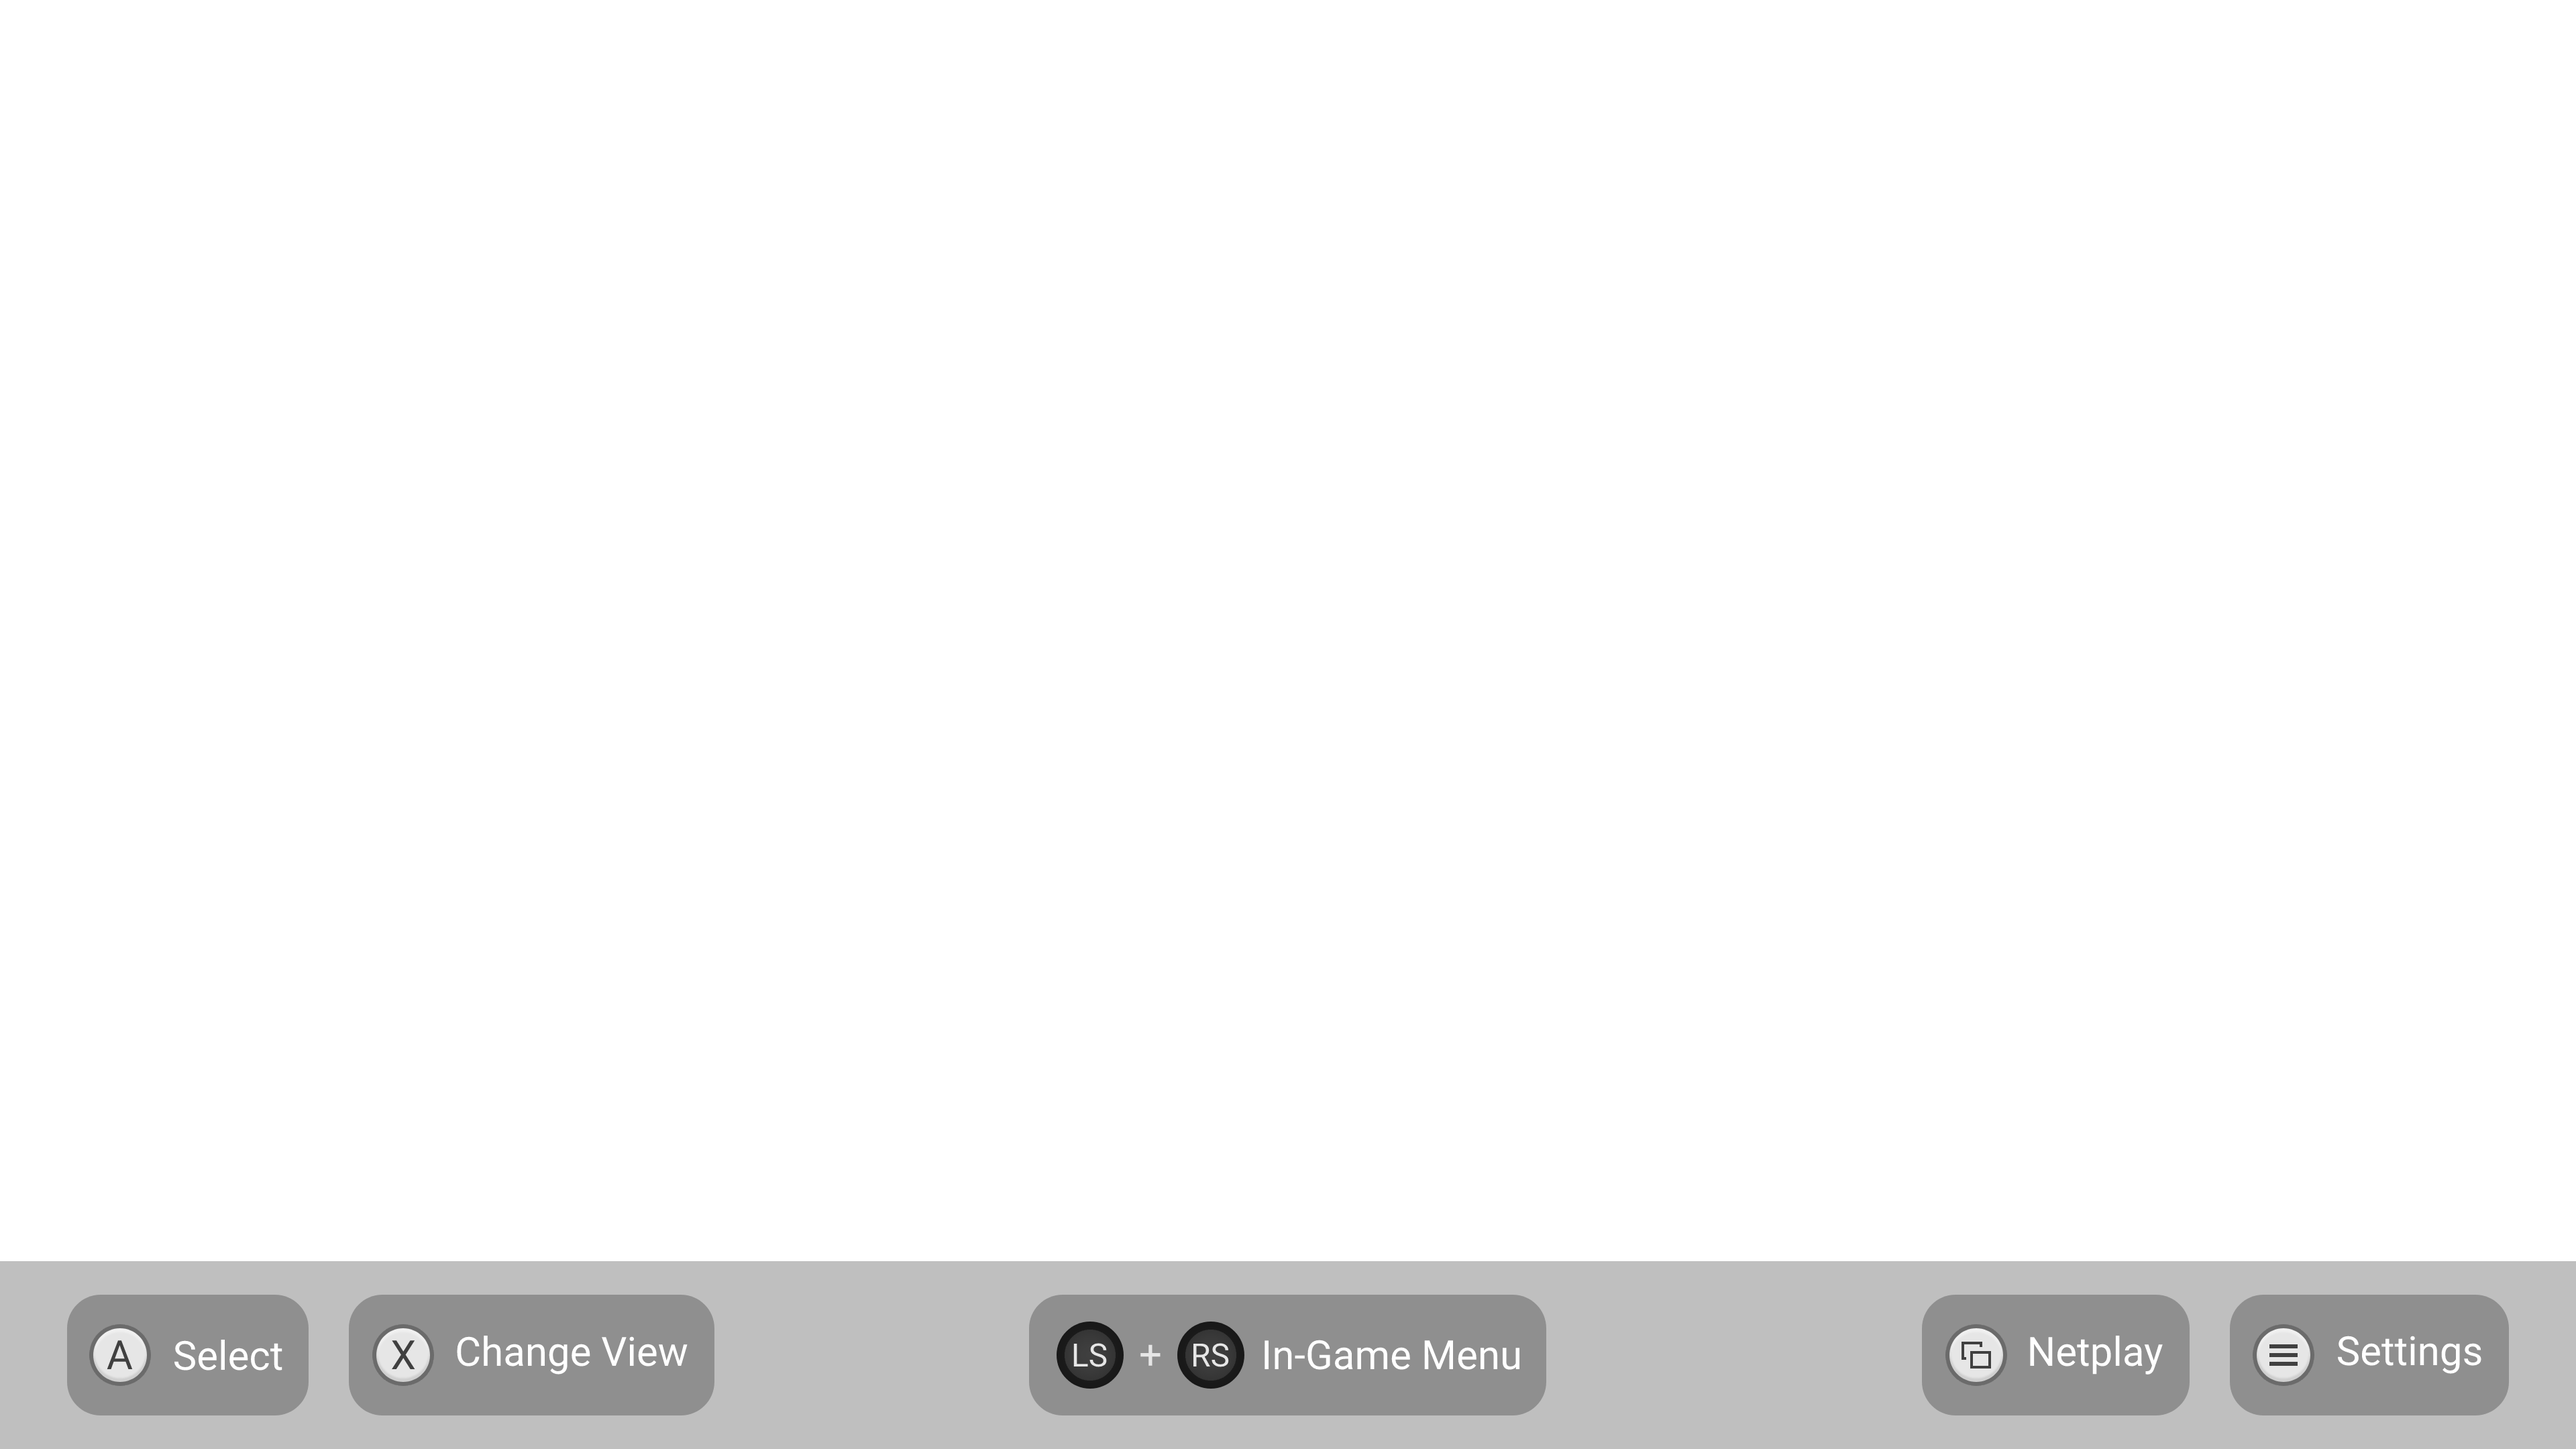
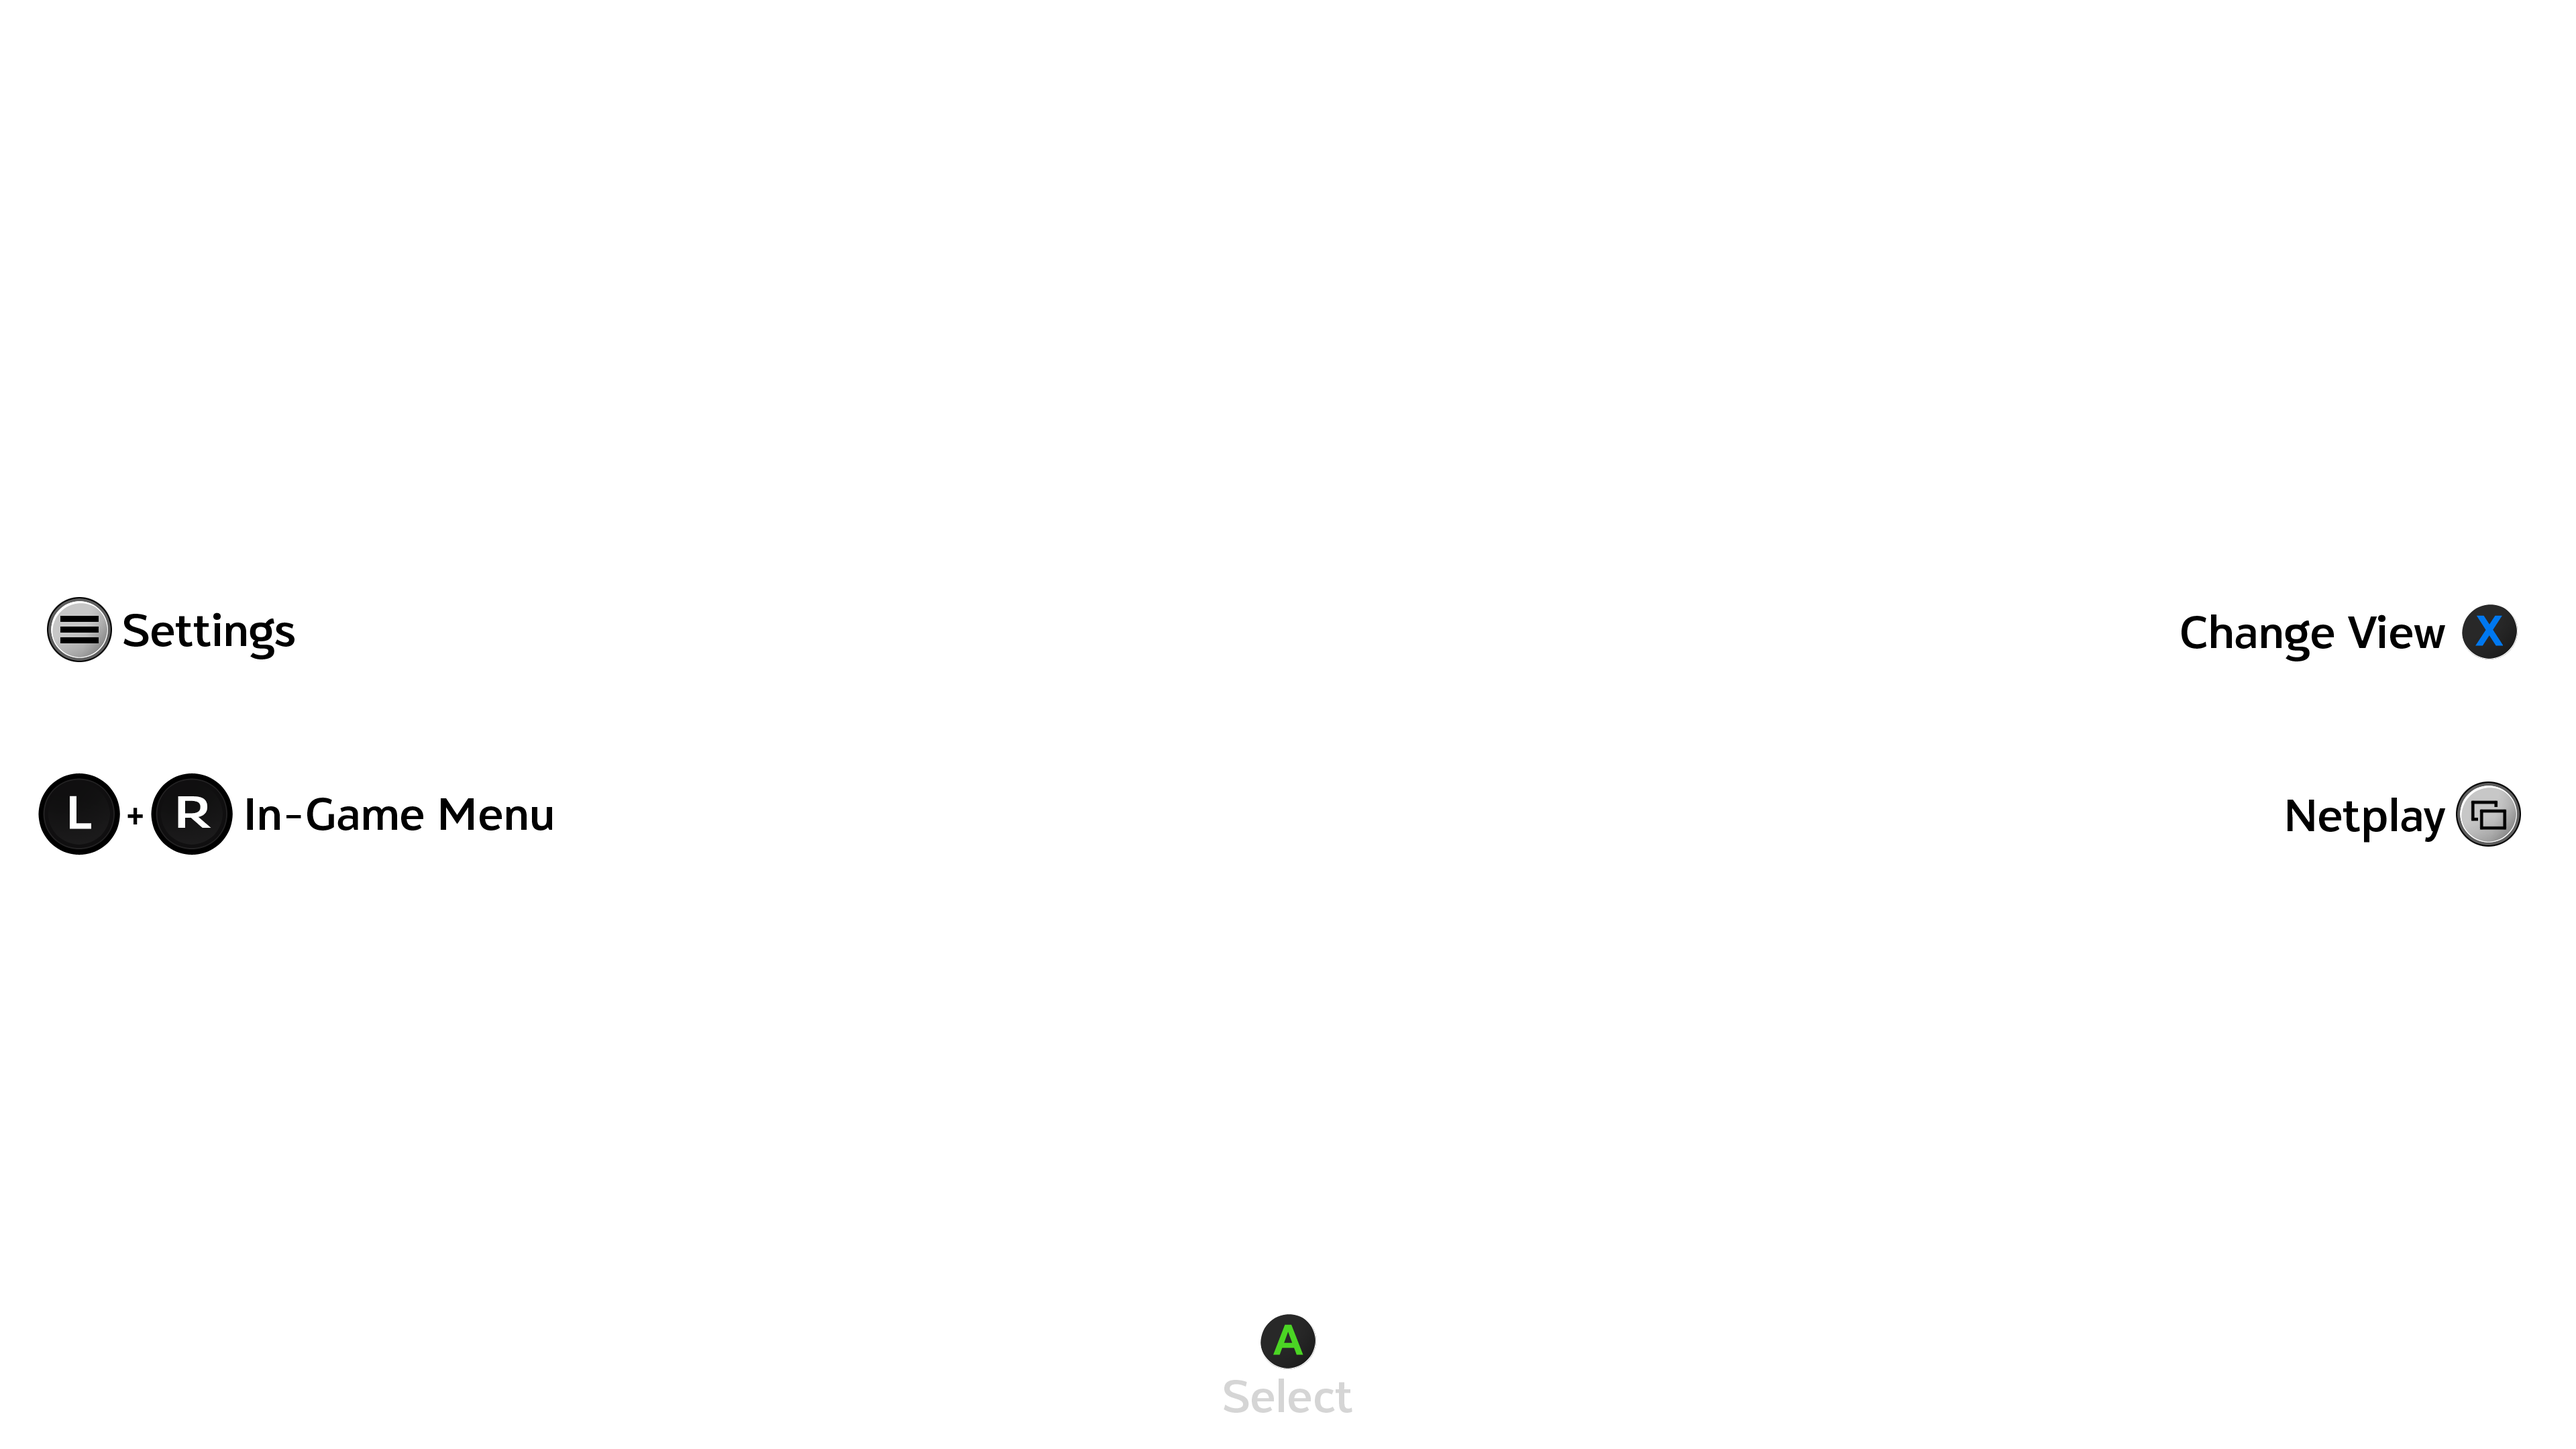
More improvements and extra theme

diff --git a/Source/Core/UICommon/ImGuiMenu/ImGuiFrontend.cpp b/Source/Core/UICommon/ImGuiMenu/ImGuiFrontend.cpp
@@ -1,10 +1,5 @@
 // Copyright 2022 Dolphin Emulator Project
 // SPDX-License-Identifier: GPL-2.0-or-later
-// 
-//  This is a WIP version of an ImGui frontend by SirMangler for use in the UWP fork.
-//  This needs some cleaning up, right now it's something of a god class.
-//  Note: This is not intended to replace any official Dolphin 'big picture' UI, of which does not exist at the time of writing.
-//
 
 #pragma once
 
@@ -385,7 +380,7 @@ FrontendResult ImGuiFrontend::RunMainLoop()
       {
         if (TryInput("Menu", device))
         {
-          if (!m_state.menuPressed)
+          if (!m_state.menuPressed && !m_state.showListView && !g_netplay_dialog)
           {
             m_state.showSettingsWindow = !m_state.showSettingsWindow;
             m_state.menuPressed = true;
@@ -396,7 +391,7 @@ FrontendResult ImGuiFrontend::RunMainLoop()
         }
         else if (TryInput("Button X", device))
         {
-          if (!m_state.menuPressed)
+          if (!m_state.menuPressed && !m_state.showSettingsWindow && !g_netplay_dialog)
           {
             m_state.showListView = !m_state.showListView;
             m_state.menuPressed = true;
@@ -406,7 +401,7 @@ FrontendResult ImGuiFrontend::RunMainLoop()
         }
         else if (TryInput("View", device))
         {
-          if (!m_state.menuPressed)
+          if (!m_state.menuPressed && !m_state.showListView && !m_state.showSettingsWindow)
           {
             if (g_netplay_dialog)
             {
@@ -1336,7 +1331,7 @@ void CreatePathsTab(UIState* state)
 
 void CreateWiiPort(int index, std::vector<std::string> devices)
 {
-  if (ImGui::BeginChild(std::format("gc-wii-{}", index).c_str(), ImVec2(-1, 75 * 75 * m_frame_scale),
+  if (ImGui::BeginChild(std::format("gc-wii-{}", index).c_str(), ImVec2(-1, 75 * m_frame_scale),
                         true))
   {
     auto controller = Wiimote::GetConfig()->GetController(index);
